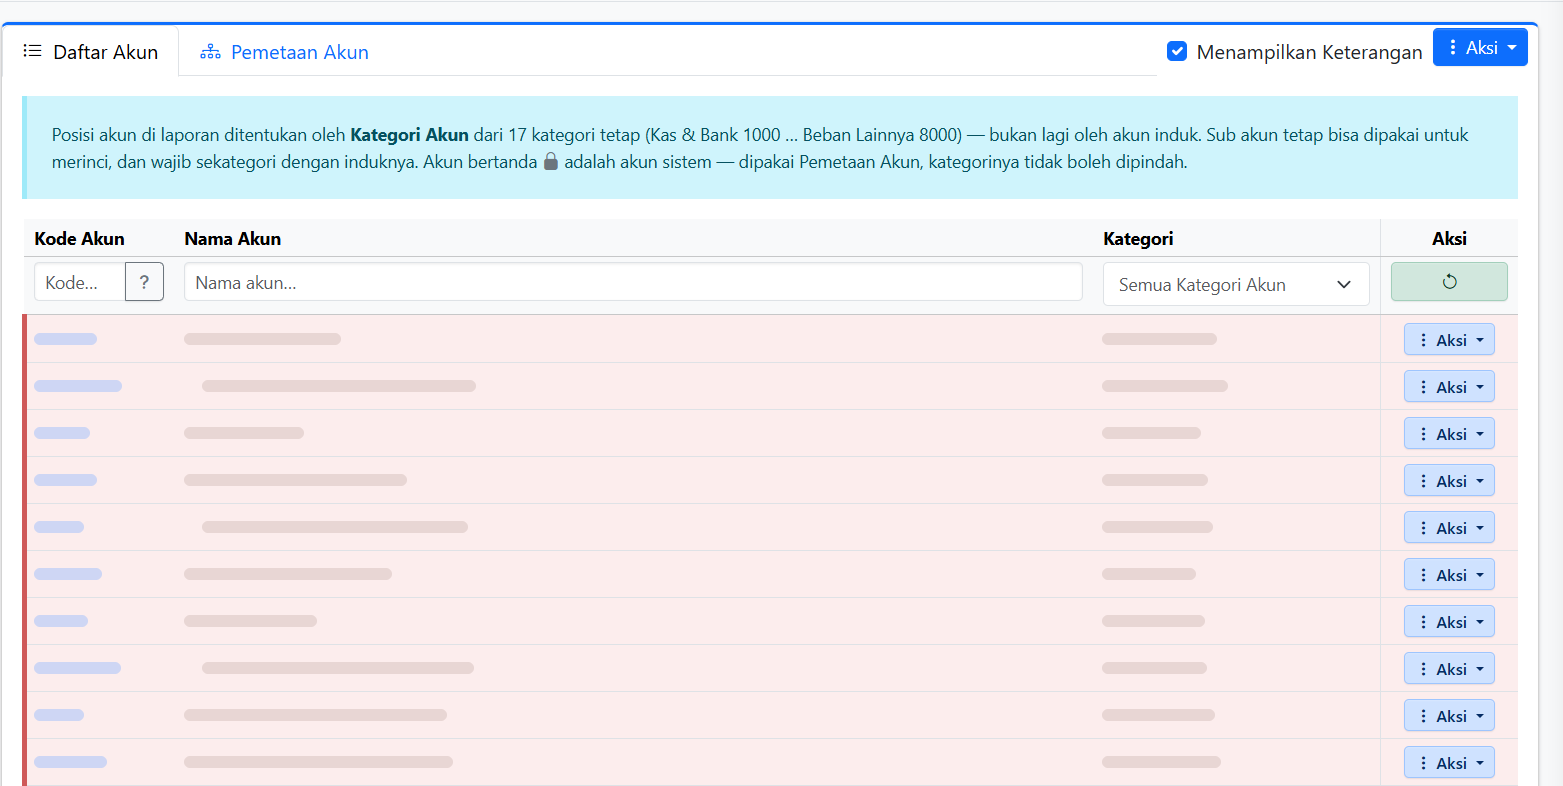
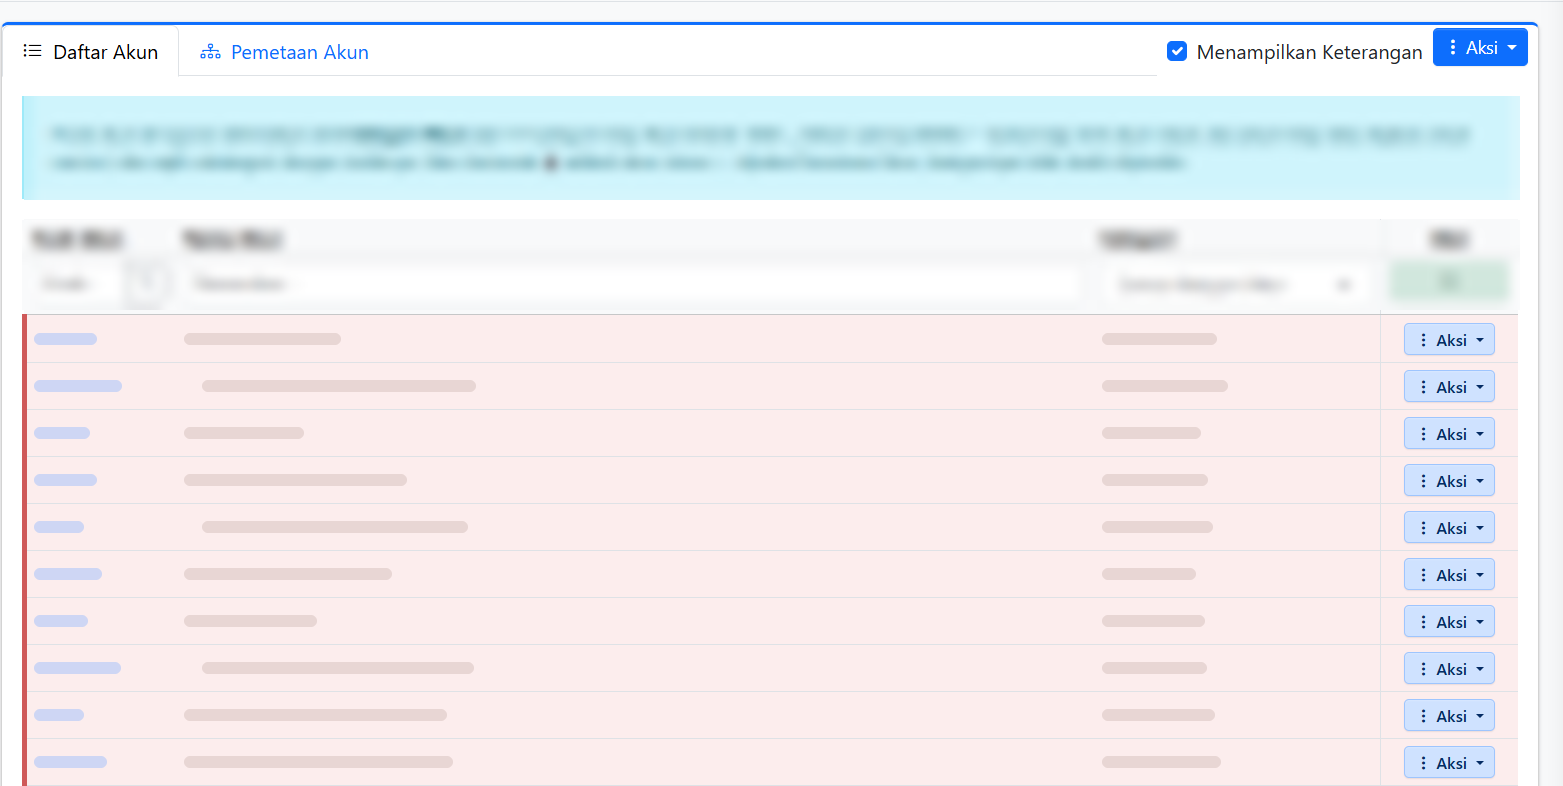
Beranda: slide Pembukuan miring 3D, judul kolom tabel disamarkan
Judul kolom, baris filter, dan teks keterangan pada gambar Penjualan, Pembelian,
dan Akun dikaburkan di berkasnya; slide Pembukuan ditampilkan miring supaya
terlihat sebagai cuplikan.

diff --git a/view/assets/css/style.css b/view/assets/css/style.css
@@ -2177,3 +2177,21 @@ p {
 .tampilan-browser.bingkai-polos .tampilan-gambar {
   border-radius: var(--radius);
 }
+
+/* Slide Pembukuan dimiringkan 3D supaya tampil sebagai cuplikan, bukan
+   tangkapan layar utuh yang mudah dibaca. */
+#panelProduk-pembukuan .tampilan-slide {
+  display: flex;
+  align-items: flex-start;
+  justify-content: center;
+  padding-top: 5%;
+  background: linear-gradient(160deg, #f6faf9 0%, #e2eeec 100%);
+  perspective: 1400px;
+}
+#panelProduk-pembukuan .tampilan-slide img {
+  width: 84%;
+  border-radius: 10px;
+  box-shadow: 0 34px 60px -26px rgba(11, 61, 66, 0.5);
+  transform: rotateX(16deg) rotateY(-14deg) rotateZ(2deg);
+  transform-origin: 50% 0;
+}

diff --git a/view/index.html b/view/index.html
@@ -30,7 +30,7 @@
       href="https://cdn.jsdelivr.net/npm/bootstrap-icons@1.11.3/font/bootstrap-icons.min.css"
     />
     <!-- ?v= = cache-buster: aset di-cache 1 hari (main.go), naikkan saat CSS/JS diubah. -->
-    <link rel="stylesheet" href="assets/css/style.css?v=20261109-6" />
+    <link rel="stylesheet" href="assets/css/style.css?v=20261109-7" />
   </head>
 
   <body>

diff --git a/view/daftar.html b/view/daftar.html
@@ -20,7 +20,7 @@
       rel="stylesheet"
       href="https://cdn.jsdelivr.net/npm/bootstrap-icons@1.11.3/font/bootstrap-icons.min.css"
     />
-    <link rel="stylesheet" href="assets/css/style.css?v=20261109-6" />
+    <link rel="stylesheet" href="assets/css/style.css?v=20261109-7" />
   </head>
 
   <body>
